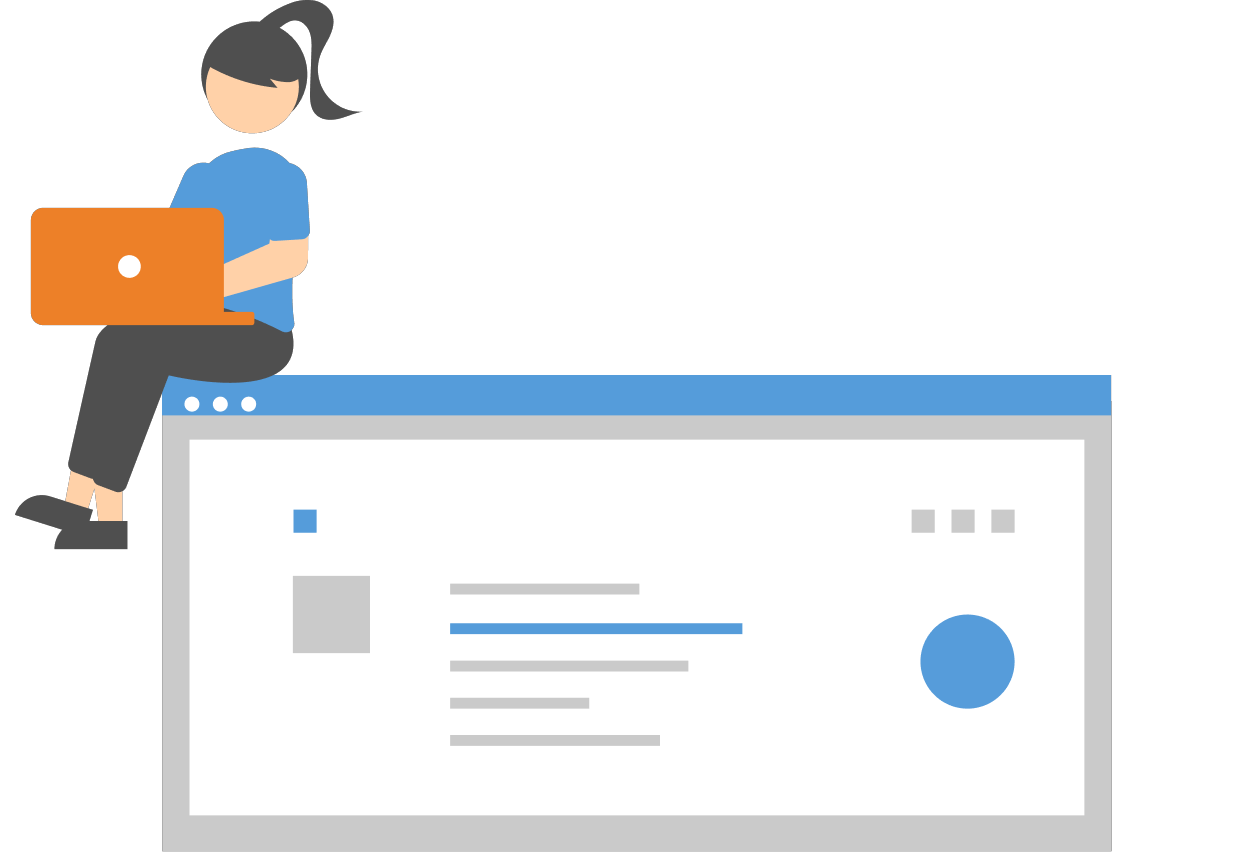
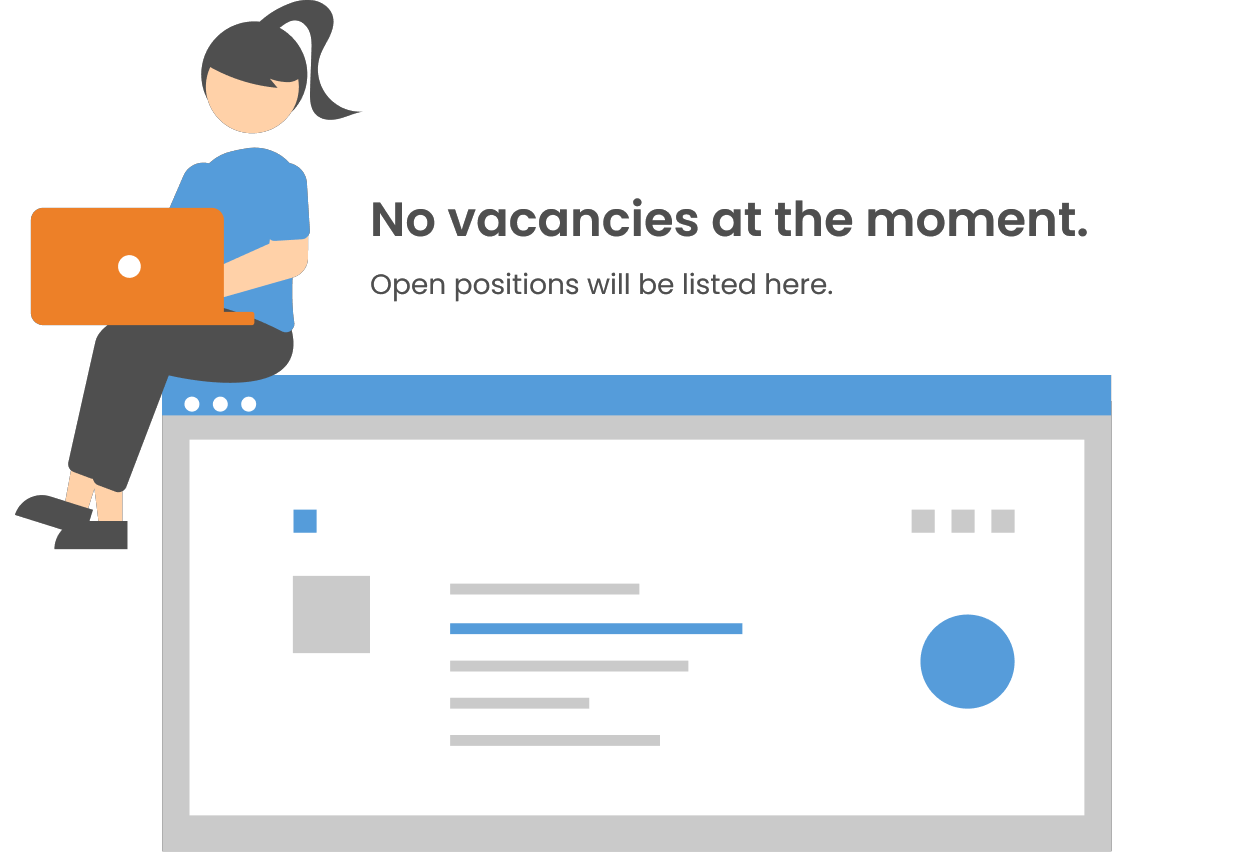
no selected vacancy and no vacancy view added

Changed region(s): [[0.3105, 0.3044, 0.6521, 0.3653], [0.2795, 0.2436, 0.8694, 0.274]]

diff --git a/src/modules/Home/index.tsx b/src/modules/Home/index.tsx
@@ -2,8 +2,14 @@ import Filter from "@src/modules/Home/components/Filter";
 import List from "@src/modules/Home/components/list";
 import Details from "@src/modules/Home/components/details";
 import DrawerFilter from "@src/modules/Home/components/DrawerFilter";
+import { HomeStore } from "@src/modules/Home/store";
+import { selectedDataVal } from "./values";
+import jobsJson from "@src/modules/Home/values/response/jobs.json";
+import { JobType } from "@src/modules/Home/types";
 
 export default function Home() {
+  const { selectedData } = HomeStore();
+  const jobs: JobType[] = jobsJson;
   return (
     <div className=" h-full overflow-hidden">
       <DrawerFilter />
@@ -19,14 +25,35 @@ export default function Home() {
       </div>
 
       <div className="h-[79%] flex w-[92%] m-auto">
-        <div className="h-auto w-full lg:w-[28%] sm:overflow-y-hidden overflow-y-auto sm:hover:overflow-y-auto ease-in-out p-5">
-          <p className="text-sm 2xl:text-2xl text-gray-500 pl-3 2xl:pl-0 2xl:font-semibold">RELEVANT RESULTS: </p>
-          <List />
-        </div>
 
-        <div className="hidden sm:block h-auto lg:w-[72%] sm:overflow-y-hidden  ease-in-out p-4">
-          <Details />
-        </div>
+        {jobs.length > 0 ? (
+          <>
+            <div className="h-auto w-full lg:w-[28%] sm:overflow-y-hidden overflow-y-auto sm:hover:overflow-y-auto ease-in-out p-5">
+              <p className="text-sm 2xl:text-2xl text-gray-500 pl-3 2xl:pl-0 2xl:font-semibold">RELEVANT RESULTS: </p>
+              <List />
+            </div>
+
+            <div className="hidden sm:block h-auto lg:w-[72%] sm:overflow-y-hidden  ease-in-out p-4">
+
+              {selectedData != selectedDataVal ? (
+                <Details />
+              ) : (
+                <div className=" w-full h-full flex flex-col items-center justify-center ">
+                  <img src="selectJob.png " className="w-[30%] h-auto p-8" alt="bg" />
+                  <p className="text-[#4F4F4F] text-md font-semibold">Select job from the list.</p>
+                  <p className="text-[#4F4F4F] text-xs">Job details will show here.</p>
+                </div>
+              )}
+            </div>
+          </>
+        ) : (
+          <>
+            <div className=" w-full h-full flex flex-col items-center justify-center">
+              <img src="no_vacancy.png " className="sm:w-[50%]  h-auto p-8" alt="bg" />
+            </div>
+          </>
+        )}
+
       </div>
     </div>
   );
